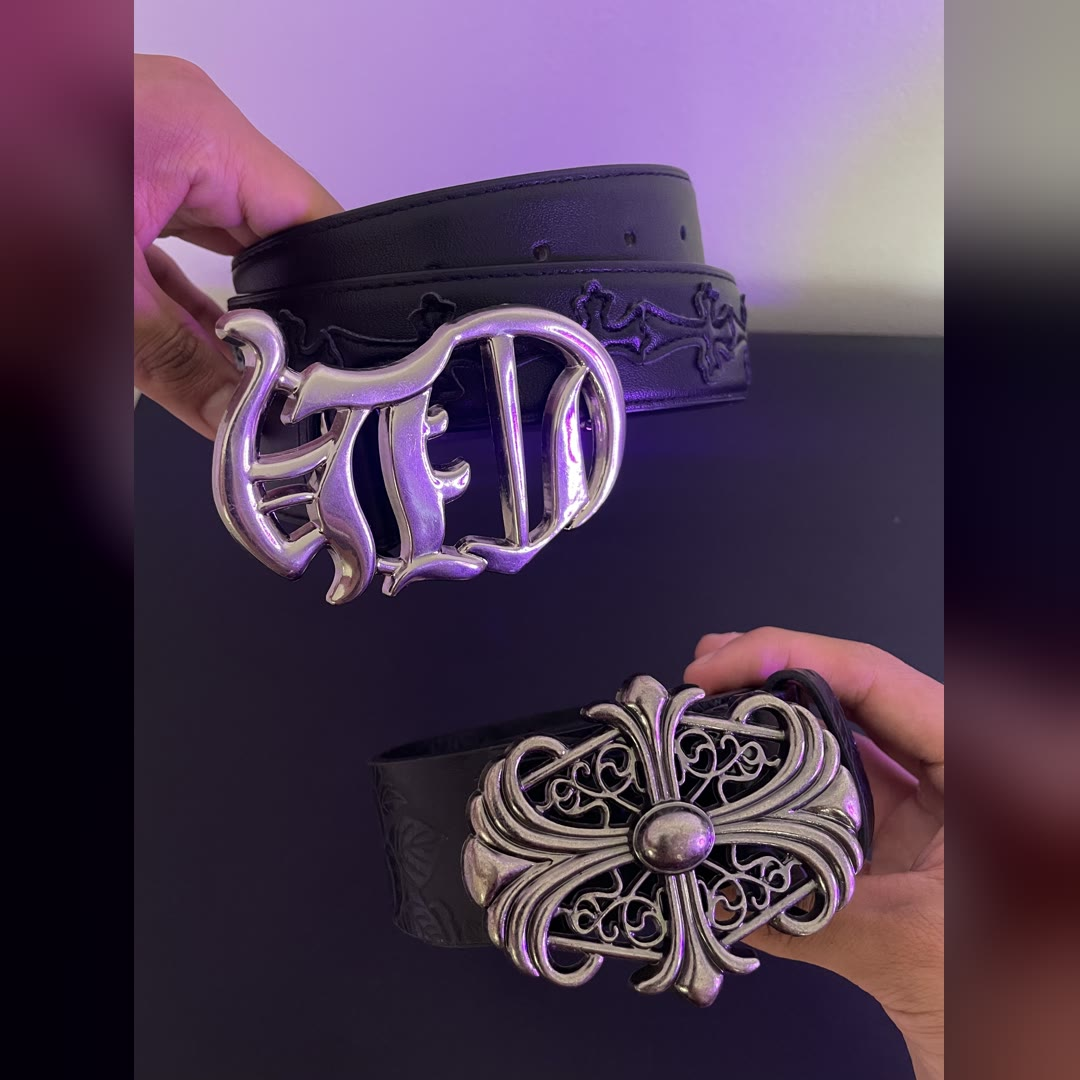
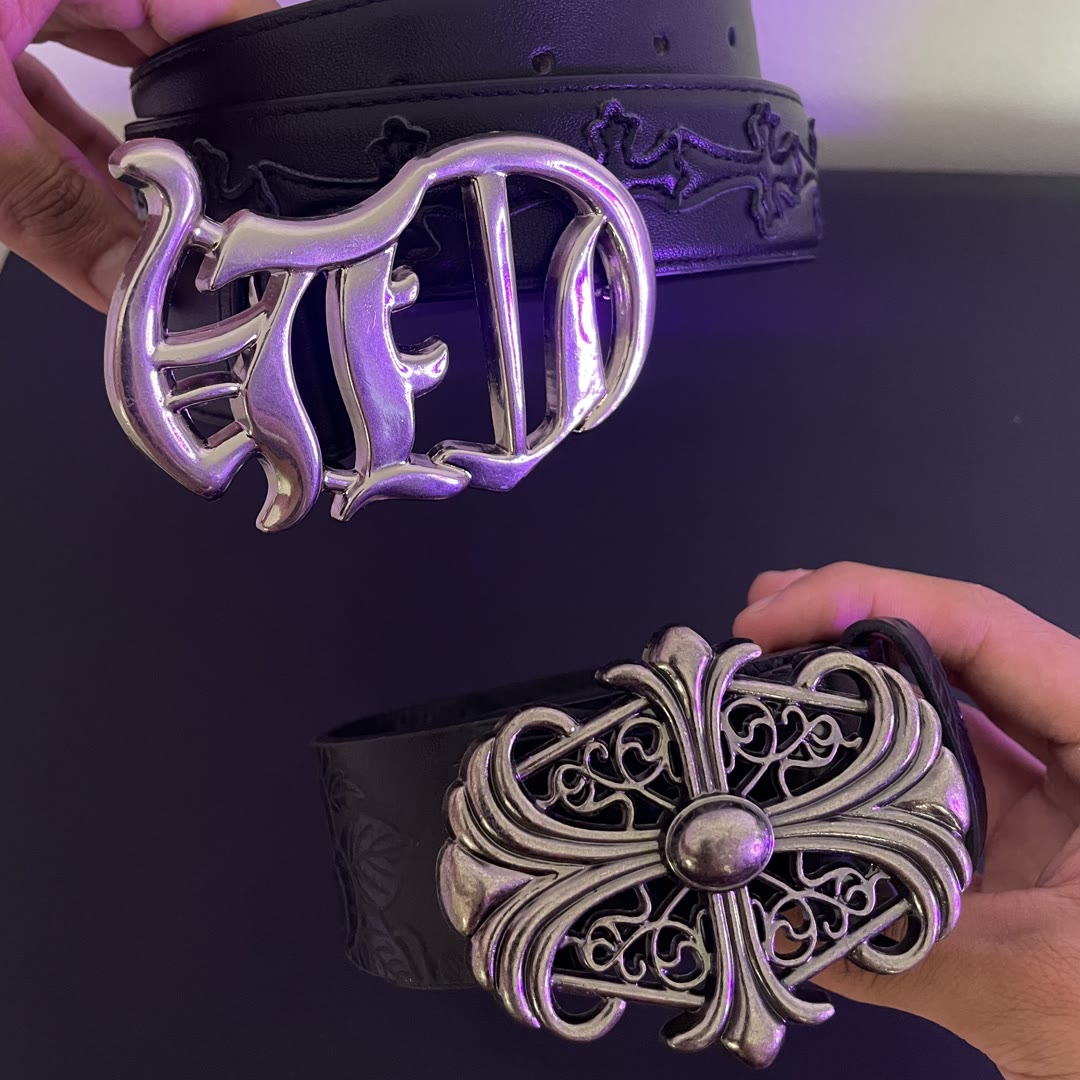
Combos de cinturones: fotos cuadradas recortadas, orden 79/89/99/119 y etiqueta Quedan N en combos

diff --git a/app.js b/app.js
@@ -873,7 +873,9 @@ function estadoCombo(x, ahora){
           disponible: casilleros.every(ops => ops.some(p => p.disponible)),
           normal: elegidos.reduce((a, p) => a + p.precio, 0),
           // Envío gratis si alguna opción lo trae (el cinturón premium, en estos combos).
-          gratis: casilleros.some(ops => ops.length && ops.every(p => p.envioGratis))};
+          gratis: casilleros.some(ops => ops.length && ops.every(p => p.envioGratis)),
+          // Menos unidades que quedan entre los productos fijos del combo (0 = sin dato).
+          quedan: Math.min.apply(null, casilleros.filter(ops => ops.length === 1 && ops[0].disponible && ops[0].quedan).map(ops => ops[0].quedan).concat([99])) % 99};
 }
 // Tarjeta del combo en la página: la foto del combo (la del Canva), precio y "Arma tu combo".
 // Lo que costarían las opciones sin promo, de la más barata a la más cara (para
@@ -905,7 +907,7 @@ function comboHTML(x, ahora){
   }
   return '<a class="combo' + (st.disponible ? '' : ' combo-agotado') + '" href="#/combo/' + x.i + '">' +
     '<div class="combo-foto"><img loading="lazy" src="' + esc(foto) + '" alt="' + esc(x.pr.nombre) + '">' +
-      (st.disponible ? '' : '<div class="tags"><span class="tag tag-agotado">Agotado</span></div>') + '</div>' +
+      (st.disponible ? (st.quedan ? '<div class="tags"><span class="tag tag-pocos">' + textoQuedan(st.quedan, false) + '</span></div>' : '') : '<div class="tags"><span class="tag tag-agotado">Agotado</span></div>') + '</div>' +
     '<div class="combo-cuerpo">' +
       '<div class="combo-nombre">' + esc(x.pr.nombre) + '</div>' +
       '<div class="precios">' + (rn.max > x.pr.valor ? '<span class="precio-antes">' + fmtRango(rn.min, rn.max) + '</span>' : '') +
@@ -946,6 +948,7 @@ function renderCombo(){
       '<h2>' + esc(x.pr.nombre) + '</h2>' +
       '<div class="ficha-precios"><div class="precios"><span class="precio-oferta">' + fmtPrecio(x.pr.valor) + '</span>' +
         (st.completo && st.normal > x.pr.valor ? '<span class="precio-antes">' + fmtPrecio(st.normal) + '</span>' : '') + '</div></div>' +
+      (st.disponible && st.quedan ? '<div class="pocos">' + textoQuedan(st.quedan, true) + '</div>' : '') +
       (st.gratis ? '<div class="envio-gratis" style="margin-top:8px">🚚 Con envío gratis</div>' : '') +
       (x.pr.hasta ? '<div class="cuenta ficha-cuenta">Termina en <b class="mono" data-hasta="' + x.pr.hasta + '">' + fmtCuenta(x.pr.hasta - ahora) + '</b></div>' : '') +
       st.casilleros.map((ops, s) => {

diff --git a/service-worker.js b/service-worker.js
@@ -5,7 +5,7 @@
 //
 // ⚠ SUBIR ESTE NÚMERO EN CADA CAMBIO (v1 → v2 → v3…). Si no, los celulares
 // que ya abrieron la página siguen viendo la versión vieja.
-const CACHE = 'timeless-catalogo-v70';
+const CACHE = 'timeless-catalogo-v71';
 const ASSETS = [
   './',
   './index.html',
